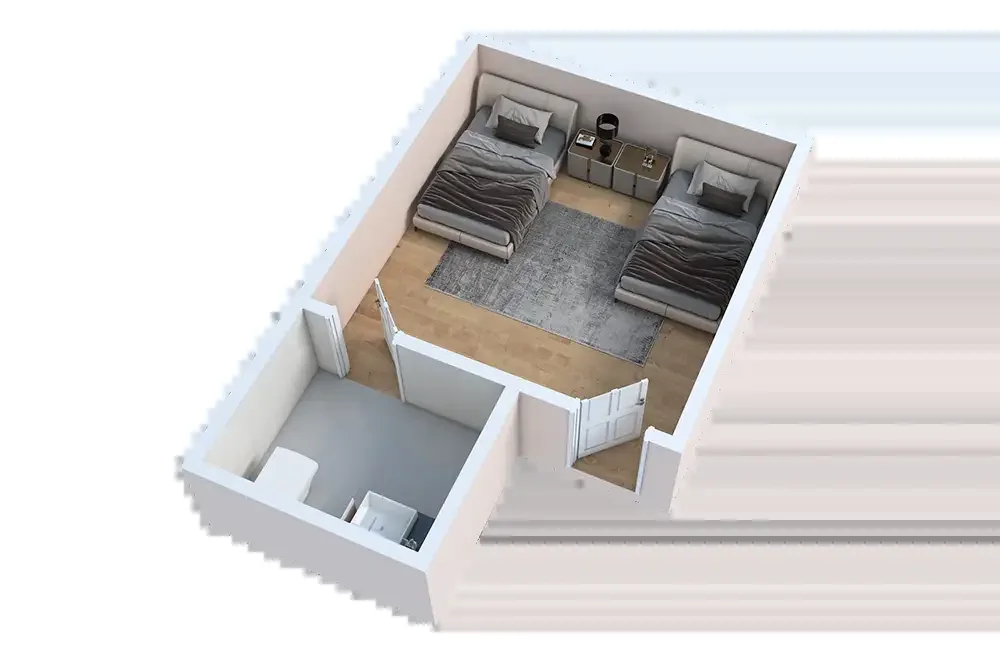
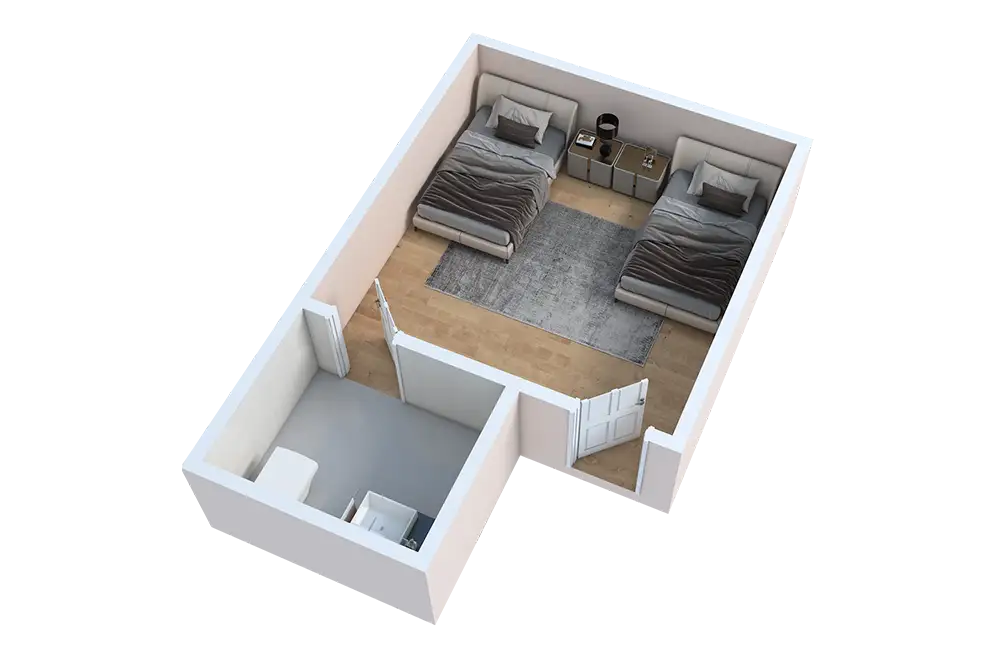
fix(ui): resolve header provenance collisions, courtyard caption alignment, corrupted floorplan render assets, and disclosure box text-wrap

diff --git a/resources/css/sections/about-hero.css b/resources/css/sections/about-hero.css
@@ -47,11 +47,8 @@
     );
 }
 
-/* --- Top-Right Provenance Tag --- */
+/* --- Provenance Tag --- */
 .about-hero__provenance {
-    position: absolute;
-    top: clamp(1rem, 2.5vw, 1.75rem);
-    right: var(--mv-gutter, clamp(1.25rem, 4vw, 4.75rem));
     display: inline-flex;
     align-items: center;
     gap: 0.5rem;
@@ -66,7 +63,6 @@
     text-transform: uppercase;
     color: rgba(247, 244, 237, 0.85);
     font-weight: 500;
-    z-index: 3;
 }
 
 .about-hero__prov-dot {
@@ -75,6 +71,13 @@
     border-radius: 50%;
     background: #C98268;
     box-shadow: 0 0 6px rgba(201, 130, 104, 0.6);
+}
+
+.about-hero__topbar-meta {
+    display: inline-flex;
+    align-items: center;
+    gap: 0.75rem;
+    flex-wrap: wrap;
 }
 
 @media (max-width: 1023px) {

diff --git a/resources/css/sections/suites-floor-plans-diagram.css b/resources/css/sections/suites-floor-plans-diagram.css
@@ -198,7 +198,7 @@
     display: flex;
     align-items: flex-start;
     gap: 0.875rem;
-    padding: 1rem 1.25rem;
+    padding: 1.1rem 1.35rem;
     border-radius: 0.5rem;
     background-color: #F5EFEB;
     border-left: 3px solid #C86D51;
@@ -213,7 +213,9 @@
 .sfp-diagram__disclosure-body {
     display: flex;
     flex-direction: column;
-    gap: 0.25rem;
+    gap: 0.35rem;
+    min-width: 0;
+    flex: 1;
 }
 
 .sfp-diagram__disclosure-badge {
@@ -226,9 +228,12 @@
 
 .sfp-diagram__disclosure-text {
     font-size: 0.8125rem;
-    line-height: 1.45;
+    line-height: 1.55;
     color: #4A3A48;
     margin: 0;
+    text-wrap: pretty;
+    overflow-wrap: break-word;
+    word-break: normal;
 }
 
 .sfp-diagram__action-bar {

diff --git a/resources/css/sections/why-families.css b/resources/css/sections/why-families.css
@@ -530,7 +530,17 @@
   }
   .wf-value + .wf-value { border-left: 1px solid rgba(237, 190, 150, 0.2); }
   .wf-value__icon { width: clamp(1.9rem, 2.1vw, 2.4rem); height: clamp(1.9rem, 2.1vw, 2.4rem); margin-bottom: 0.3rem; }
-  .wf__caption { right: auto; left: 31%; bottom: calc(var(--wf-wave) + 0.6rem); }
+  .wf__caption {
+    left: auto;
+    right: var(--wf-gutter);
+    top: 1.5rem;
+    bottom: auto;
+    background: rgba(47, 18, 40, 0.72);
+    border: 1px solid rgba(251, 245, 239, 0.18);
+    box-shadow: 0 4px 16px rgba(0, 0, 0, 0.25);
+    backdrop-filter: blur(8px);
+    -webkit-backdrop-filter: blur(8px);
+  }
 }
 
 @media (min-width: 1200px) and (max-width: 1439px) {

diff --git a/resources/css/sections/gallery-hero.css b/resources/css/sections/gallery-hero.css
@@ -45,11 +45,8 @@
     );
 }
 
-/* --- Top-Right Provenance Tag --- */
+/* --- Provenance Tag --- */
 .gh-hero__provenance {
-    position: absolute;
-    top: clamp(1rem, 2.5vw, 1.75rem);
-    right: var(--mv-gutter, clamp(1.25rem, 4vw, 4.75rem));
     display: inline-flex;
     align-items: center;
     gap: 0.5rem;
@@ -64,7 +61,13 @@
     text-transform: uppercase;
     color: rgba(247, 244, 237, 0.85);
     font-weight: 500;
-    z-index: 3;
+}
+
+.gh-hero__topbar-meta {
+    display: inline-flex;
+    align-items: center;
+    gap: 0.75rem;
+    flex-wrap: wrap;
 }
 
 .gh-hero__prov-dot {

diff --git a/resources/css/sections/services-and-amenities-hero.css b/resources/css/sections/services-and-amenities-hero.css
@@ -44,11 +44,8 @@
     );
 }
 
-/* --- Top-Right Provenance Tag --- */
+/* --- Provenance Tag --- */
 .sa-hero__provenance {
-    position: absolute;
-    top: clamp(1rem, 2.5vw, 1.75rem);
-    right: var(--mv-gutter, clamp(1.25rem, 4vw, 4.75rem));
     display: inline-flex;
     align-items: center;
     gap: 0.5rem;
@@ -63,7 +60,13 @@
     text-transform: uppercase;
     color: rgba(247, 244, 237, 0.85);
     font-weight: 500;
-    z-index: 3;
+}
+
+.sa-hero__topbar-meta {
+    display: inline-flex;
+    align-items: center;
+    gap: 0.75rem;
+    flex-wrap: wrap;
 }
 
 .sa-hero__prov-dot {

diff --git a/resources/css/components/header.css b/resources/css/components/header.css
@@ -137,6 +137,9 @@ body:has(.site-header[data-variant="solid"]) main {
   list-style: none;
   transition: gap 0.32s var(--header-ease);
 }
+@media (min-width: 1280px) and (max-width: 1399.98px) {
+  .site-nav { gap: clamp(0.6rem, 0.85vw, 0.95rem); }
+}
 .site-header.is-compact .site-nav { gap: clamp(0.8rem, 1vw, 1.25rem); }
 
 .site-nav__item { position: relative; }

diff --git a/resources/views/sections/about-hero/index.blade.php b/resources/views/sections/about-hero/index.blade.php
@@ -32,24 +32,24 @@
         <div class="about-hero__scrim"></div>
     </div>
 
-    {{-- Top-Right Authentic Property Provenance Badge --}}
-    <div class="about-hero__provenance" aria-label="Photography authenticity badge">
-        <span class="about-hero__prov-dot" aria-hidden="true"></span>
-        <span class="about-hero__prov-text">MISSION VILLA · COURTYARD PATIO PHOTOGRAPH</span>
-    </div>
-
     <div class="about-hero__inner">
-        {{-- Top Bar: Breadcrumbs & Licensing --}}
+        {{-- Top Bar: Breadcrumbs, Provenance & Licensing --}}
         <div class="about-hero__topbar">
             <nav aria-label="Breadcrumb" class="about-hero__breadcrumbs">
                 <a href="/" class="about-hero__crumb">Home</a>
                 <span class="about-hero__crumb-sep" aria-hidden="true">/</span>
                 <span class="about-hero__crumb about-hero__crumb--active" aria-current="page">About Us</span>
             </nav>
-            <div class="about-hero__badge">
-                <span class="about-hero__badge-label">{{ $data['eyebrow'] }}</span>
-                <span class="about-hero__badge-dot" aria-hidden="true">·</span>
-                <span class="about-hero__badge-license">{{ $data['license'] }}</span>
+            <div class="about-hero__topbar-meta">
+                <div class="about-hero__provenance" aria-label="Photography authenticity badge">
+                    <span class="about-hero__prov-dot" aria-hidden="true"></span>
+                    <span class="about-hero__prov-text">MISSION VILLA · COURTYARD PATIO PHOTOGRAPH</span>
+                </div>
+                <div class="about-hero__badge">
+                    <span class="about-hero__badge-label">{{ $data['eyebrow'] }}</span>
+                    <span class="about-hero__badge-dot" aria-hidden="true">·</span>
+                    <span class="about-hero__badge-license">{{ $data['license'] }}</span>
+                </div>
             </div>
         </div>
 

diff --git a/resources/views/sections/gallery-hero/index.blade.php b/resources/views/sections/gallery-hero/index.blade.php
@@ -29,14 +29,8 @@
         <div class="gh-hero__scrim"></div>
     </div>
 
-    {{-- Top-Right Authentic Property Provenance Badge --}}
-    <div class="gh-hero__provenance" aria-label="Photography authenticity badge">
-        <span class="gh-hero__prov-dot" aria-hidden="true"></span>
-        <span class="gh-hero__prov-text">MISSION VILLA · ARCHIVAL PROPERTY PHOTOGRAPHY</span>
-    </div>
-
     <div class="gh-hero__inner">
-        {{-- Top Bar: Breadcrumbs --}}
+        {{-- Top Bar: Breadcrumbs & Provenance --}}
         <div class="gh-hero__topbar">
             <nav aria-label="Breadcrumb" class="gh-hero__breadcrumbs">
                 <a href="/" class="gh-hero__crumb">Home</a>
@@ -45,10 +39,16 @@
                 <span class="gh-hero__crumb-sep" aria-hidden="true">·</span>
                 <span class="gh-hero__crumb gh-hero__crumb--active" aria-current="page">Gallery &amp; Virtual Tour</span>
             </nav>
-            <div class="gh-hero__badge">
-                <span>Visual Monograph</span>
-                <span class="gh-hero__badge-dot" aria-hidden="true"></span>
-                <span>Daly City, CA</span>
+            <div class="gh-hero__topbar-meta">
+                <div class="gh-hero__provenance" aria-label="Photography authenticity badge">
+                    <span class="gh-hero__prov-dot" aria-hidden="true"></span>
+                    <span class="gh-hero__prov-text">MISSION VILLA · ARCHIVAL PROPERTY PHOTOGRAPHY</span>
+                </div>
+                <div class="gh-hero__badge">
+                    <span>Visual Monograph</span>
+                    <span class="gh-hero__badge-dot" aria-hidden="true"></span>
+                    <span>Daly City, CA</span>
+                </div>
             </div>
         </div>
 

diff --git a/resources/views/sections/services-and-amenities-hero/index.blade.php b/resources/views/sections/services-and-amenities-hero/index.blade.php
@@ -28,14 +28,8 @@
         <div class="sa-hero__scrim"></div>
     </div>
 
-    {{-- Top-Right Authentic Facility Provenance Badge --}}
-    <div class="sa-hero__provenance" aria-label="Photography authenticity badge">
-        <span class="sa-hero__prov-dot" aria-hidden="true"></span>
-        <span class="sa-hero__prov-text">MISSION VILLA · COMMUNITY LOUNGE FACILITY PHOTO</span>
-    </div>
-
     <div class="sa-hero__inner">
-        {{-- Top Bar: Breadcrumbs --}}
+        {{-- Top Bar: Breadcrumbs & Provenance --}}
         <div class="sa-hero__topbar">
             <nav aria-label="Breadcrumb" class="sa-hero__breadcrumbs">
                 <a href="/" class="sa-hero__crumb">Home</a>
@@ -44,10 +38,16 @@
                 <span class="sa-hero__crumb-sep" aria-hidden="true">·</span>
                 <span class="sa-hero__crumb sa-hero__crumb--active" aria-current="page">Services &amp; Amenities</span>
             </nav>
-            <div class="sa-hero__badge">
-                <span>Daly City, CA</span>
-                <span class="sa-hero__badge-dot" aria-hidden="true"></span>
-                <span>RCFE #415601046</span>
+            <div class="sa-hero__topbar-meta">
+                <div class="sa-hero__provenance" aria-label="Photography authenticity badge">
+                    <span class="sa-hero__prov-dot" aria-hidden="true"></span>
+                    <span class="sa-hero__prov-text">MISSION VILLA · COMMUNITY LOUNGE FACILITY PHOTO</span>
+                </div>
+                <div class="sa-hero__badge">
+                    <span>Daly City, CA</span>
+                    <span class="sa-hero__badge-dot" aria-hidden="true"></span>
+                    <span>RCFE #415601046</span>
+                </div>
             </div>
         </div>
 

diff --git a/content/pages/suites-and-floor-plans.php b/content/pages/suites-and-floor-plans.php
@@ -202,7 +202,7 @@ return [
                     'image' => [
                         'src' => '/images/suites/companion-suite-floorplan-1000.webp',
                         'width' => 1000,
-                        'height' => 750,
+                        'height' => 660,
                         'alt' => 'Mission Villa Companion Unit floor plan showing two private beds and en-suite bath',
                         'provenance' => 'facility',
                         'rights' => 'cleared',
